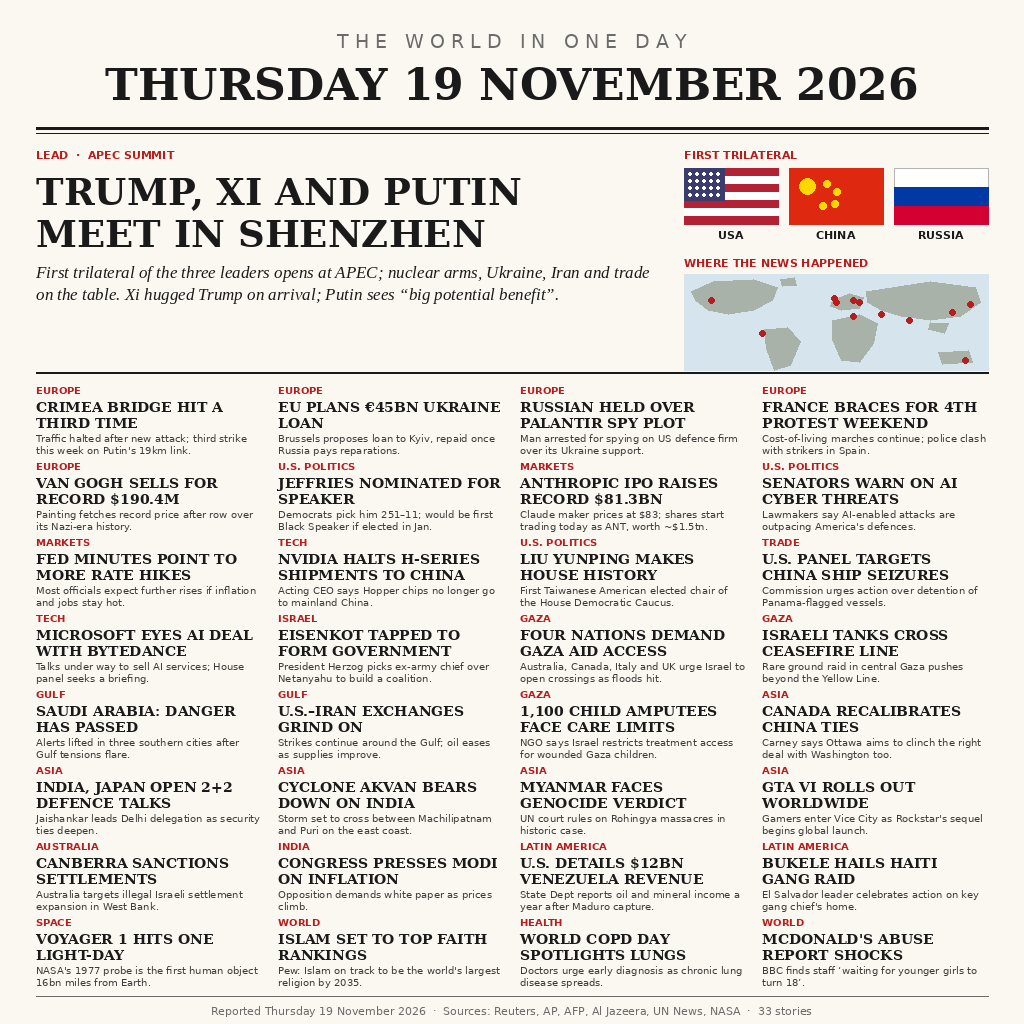
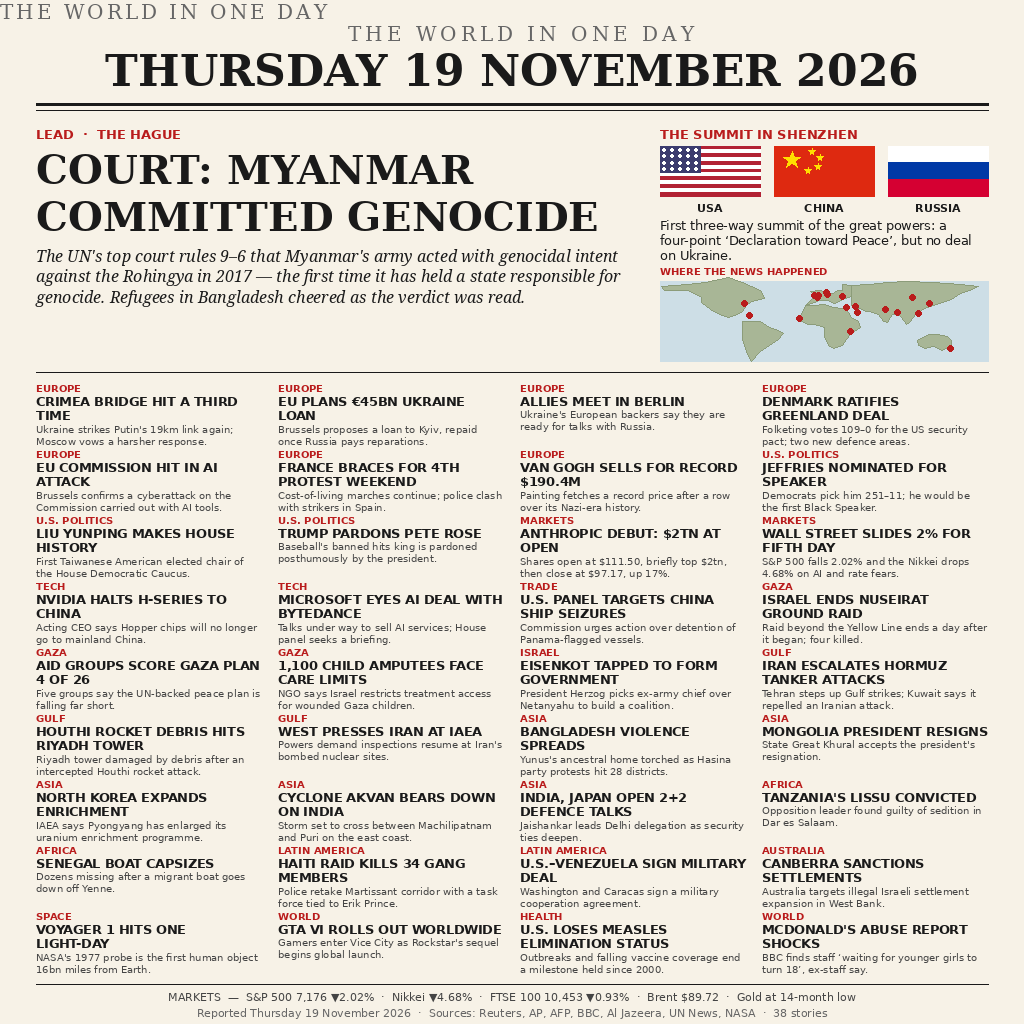
Make.fun news-image-20261119 v2: full-day front page, 38 stories of Thursday 19 November 2026

Changed region(s): [[0.0312, 0.0, 0.9688, 1.0], [0.0, 0.0, 0.0312, 0.0312]]

diff --git a/README.md b/README.md
@@ -4,7 +4,7 @@
 [![rank](https://make.fun/badge/news-image-20261119/pytraaa9-ai/news-image-20261119/rank.svg)](https://make.fun/bounty/news-image-20261119/leaderboard?utm_source=github&utm_medium=readme&utm_campaign=news-image-20261119)
 [![reward](https://make.fun/badge/news-image-20261119/pytraaa9-ai/news-image-20261119/reward.svg)](https://make.fun/bounty/news-image-20261119?utm_source=github&utm_medium=readme&utm_campaign=news-image-20261119)
 
-A program that writes one image summing up Thursday 19 November 2026 world news — a newspaper front page (1024×1024 PNG): lead story the first Trump–Xi–Putin trilateral at APEC in Shenzhen, plus 32 more stories across six continents, a world map, and the day's biggest business story, Anthropic's record $81.3bn IPO.
+A program that writes one image summing up the full day of Thursday 19 November 2026 world news — a newspaper front page (1024×1024 PNG): lead story the UN court ruling that Myanmar committed genocide against the Rohingya, plus 37 more stories across six continents, a world map, and the day's biggest business story, Anthropic's record IPO debut.
 
 ## Run it
 
@@ -14,44 +14,49 @@ mkdir -p out && MAKEFUN_OUTPUT_DIR=out python3 main.py
 
 ## The day's news
 
-- **Lead:** Trump, Xi and Putin meet in Shenzhen — the first trilateral of the three leaders opens at APEC; nuclear arms, Ukraine, Iran and trade on the table; Xi hugged Trump on arrival; Putin sees "big potential benefit".
-- Crimea Bridge hit a third time this week; traffic halted
+- **Lead:** The UN's top court rules 9–6 that Myanmar's army acted with genocidal intent against the Rohingya in 2017 — the first time it has held a state responsible for genocide. Refugees in Bangladesh cheered as the verdict was read.
+- **The summit in Shenzhen:** Trump, Xi and Putin hold the first three-way summit of the great powers and issue a four-point "Declaration toward Peace" — "a nuclear war cannot be won" — but no deal on Ukraine.
+- Crimea Bridge hit a third time; Putin vows a harsher response
 - EU proposes a €45bn Ukraine loan, repaid once Russia pays reparations
-- Russian arrested for spying on US defence firm Palantir over Ukraine support
+- Ukraine's European allies meet in Berlin, say they are ready for talks with Russia
+- Denmark ratifies the US–Greenland security deal 109–0; two new defence areas
+- EU Commission hit in an AI-powered cyberattack
 - France braces for a fourth weekend of cost-of-living protests; police clash with strikers in Spain
 - Van Gogh painting sells for a record $190.4m after a row over its Nazi-era history
 - Democrats nominate Hakeem Jeffries for Speaker 251–11; he would be the first Black Speaker
-- Anthropic's IPO raises a record $81.3bn at $83 a share; trading starts today as ANT
-- US senators warn AI-enabled cyber threats are outpacing defences
-- Fed minutes point to more rate hikes
-- Nvidia halts H-series chip shipments to China
 - Liu Yunping makes history as the first Taiwanese American to chair the House Democratic Caucus
-- US panel targets China over Panama-flagged ship seizures
+- Trump posthumously pardons Pete Rose
+- Anthropic's debut: shares open at $111.50, briefly top a $2tn value, then close at $97.17, up 17%
+- Wall Street slides 2% for a fifth straight day; S&P 500 falls 2.02%, Nikkei drops 4.68%
+- Nvidia halts H-series chip shipments to China
 - Microsoft eyes an AI deal with ByteDance
-- Eisenkot tapped to form Israel's government, bypassing Netanyahu
-- Four nations demand Gaza aid access as floods worsen
-- Israeli tanks cross the Gaza ceasefire line in a rare ground raid
-- Saudi Arabia says the danger has passed in three southern cities
-- US–Iran exchanges grind on around the Gulf; oil eases
+- US panel targets China over Panama-flagged ship seizures
+- Israel ends its Nuseirat ground raid a day after it began; four killed
+- Aid groups score the Gaza peace plan 4 of 26; five groups say it is falling far short
 - 1,100 child amputees in Gaza face treatment limits, NGO says
-- Canada recalibrates its China ties
-- India and Japan open 2+2 defence talks
+- Eisenkot tapped to form Israel's government, bypassing Netanyahu
+- Iran escalates Hormuz tanker attacks; Kuwait says it repelled an Iranian attack
+- Houthi rocket debris hits a Riyadh tower after an intercepted attack
+- West presses Iran at the IAEA to let inspections resume at bombed nuclear sites
+- Bangladesh violence spreads; Yunus's ancestral home torched, protests hit 28 districts
+- Mongolia's president resigns; parliament accepts
+- IAEA says North Korea has expanded uranium enrichment
 - Cyclone Akvan bears down on India's east coast
-- Myanmar faces a historic genocide verdict at the UN court
-- GTA VI rolls out worldwide; gamers enter Vice City
+- India and Japan open 2+2 defence talks
+- Tanzania opposition leader Lissu convicted of sedition
+- Migrant boat capsizes off Senegal; dozens missing
+- Haiti raid kills 34 gang members; police retake the Martissant corridor
+- US and Venezuela sign a military cooperation deal
 - Australia sanctions Israeli settlement expansion in the West Bank
-- India's Congress presses Modi on inflation
-- US details $12bn in Venezuelan oil and mineral revenue
-- Bukele hails a raid on a Haiti gang leader's home
 - Voyager 1 hits one light-day from Earth
-- Pew: Islam on track to be the world's largest religion by 2035
-- World COPD Day spotlights early diagnosis
+- GTA VI rolls out worldwide; gamers enter Vice City
+- US loses measles elimination status after outbreaks and falling vaccine coverage
 - BBC report on abuse at McDonald's shocks
 
 All stories were verified against at least two reputable sources
-(Reuters, AP, AFP, Al Jazeera, UN News, NASA) on 19 November 2026.
-Note: this v1 entry covers overnight and morning news of 19 November
-2026; afternoon and evening developments go into a full-day v2.
+(Reuters, AP, AFP, BBC, Al Jazeera, UN News, NASA) on 19–20 November 2026.
+Note: this v2 entry covers the full day of 19 November 2026,
+replacing the morning-only v1 entry.
 
 ## How it works
 
